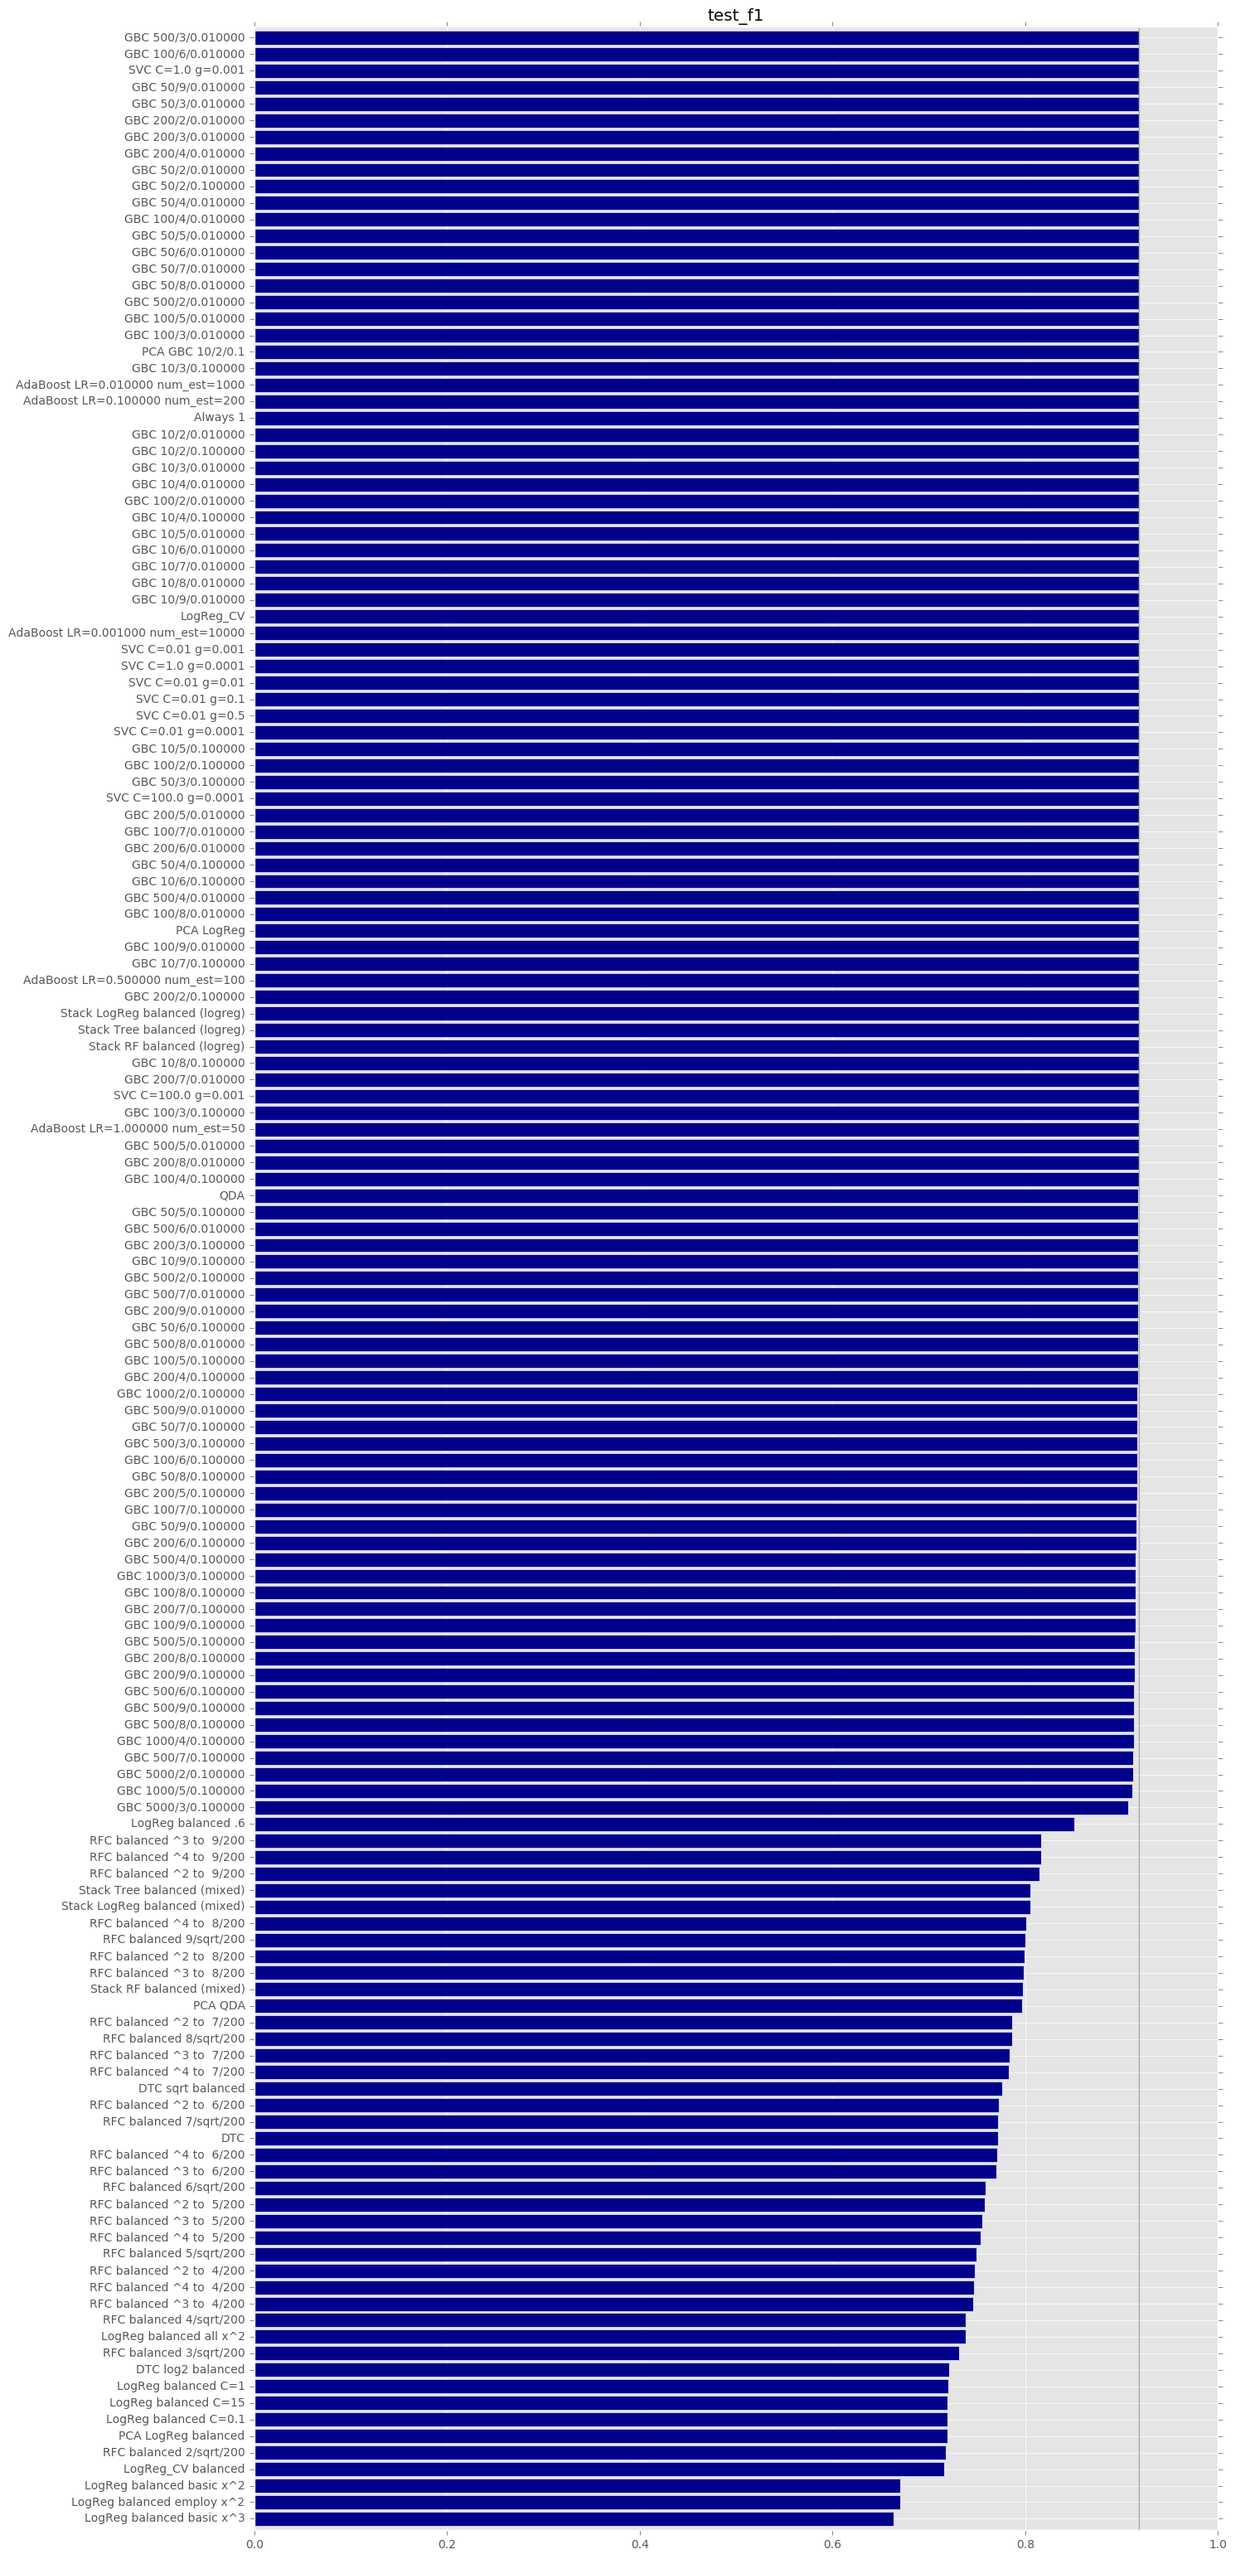
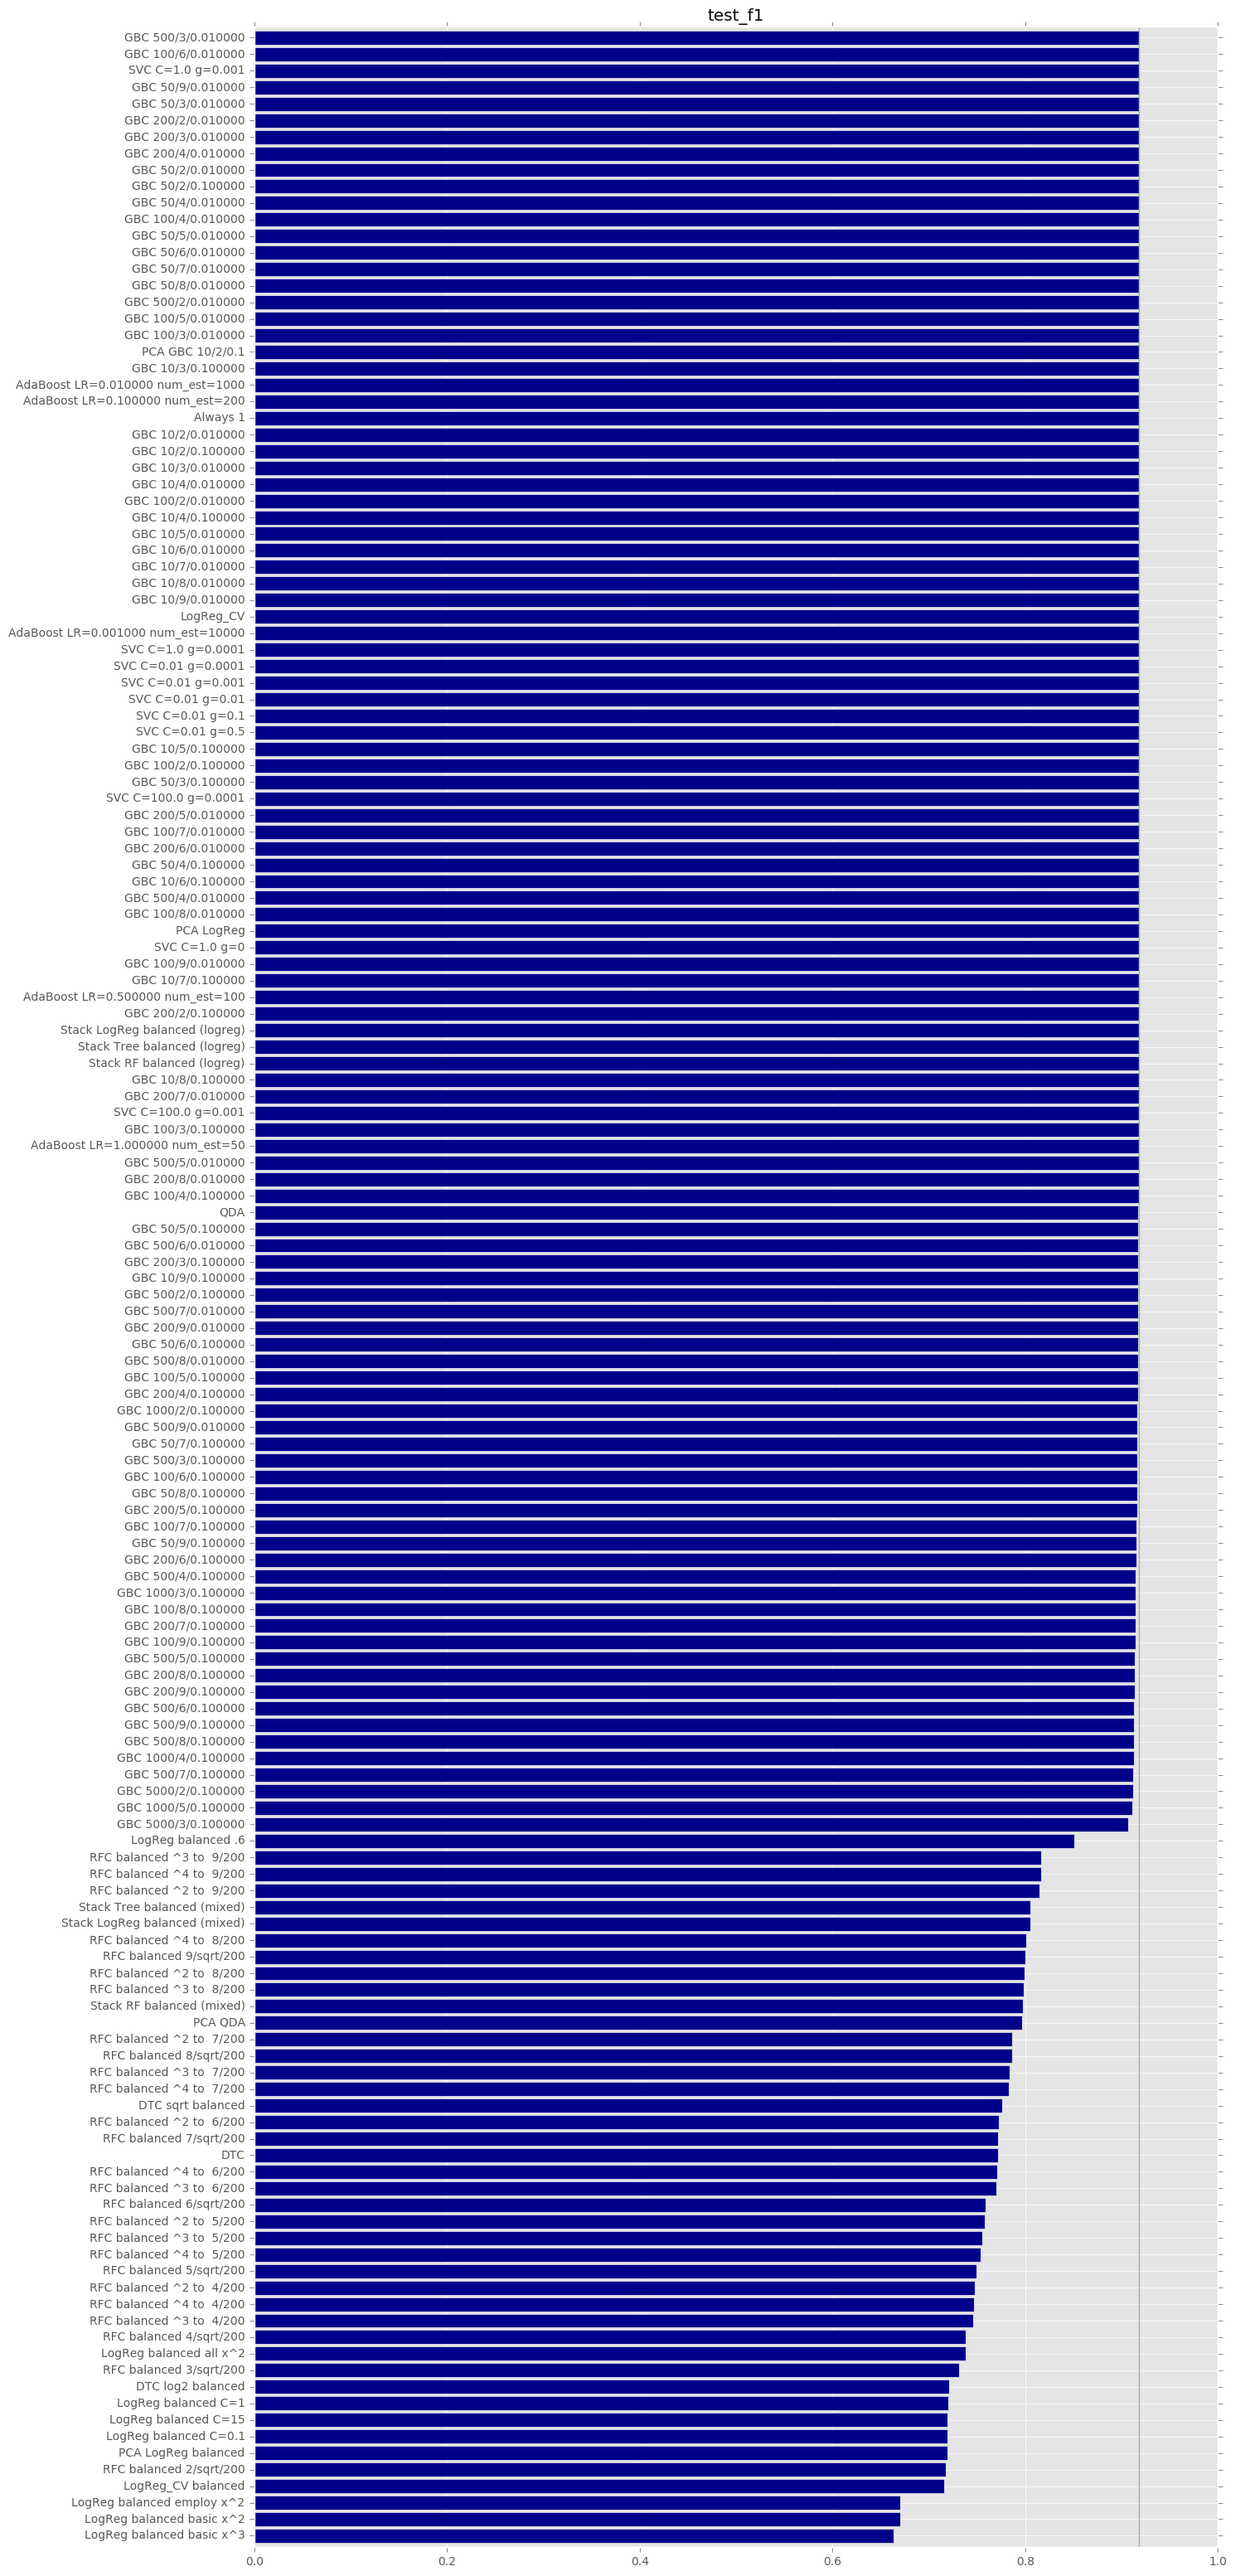
Latest results

Changed region(s): [[0.0309, 0.0311, 0.9262, 0.9951], [0.0309, 0.4354, 0.0617, 0.4665]]

diff --git a/docs/05-Analysis.html b/docs/05-Analysis.html
@@ -68,13 +68,12 @@ are represented in this report.</p>
 <ul>
   <li>The <b>Support Vector Classifier</b> (with an RBF kernel) has
   the highest AUC overall, at 0.666, for the best choices of the
-  hyperparameters <i>C</i> and <i>gamma</i>. [NB: We are still
-  re-running the SVC models so the charts below do not currently
-  reflect this.] This model group does not do particularly well with
-  metrics other than AUC, however. SVC performance lets us improve
-  precision with the lowest cost in recall; but based on F1 and
-  accuracy scores in the test data, this model group doesn't start
-  with a strong minimum.</li>
+  hyperparameters <i>C</i>=1.0 and <i>gamma</i>=0<sup>+</sup>. This
+  model group does not do particularly well with metrics other than
+  AUC, however. SVC performance lets us improve precision with the
+  lowest cost in recall; but based on F1 and accuracy scores in the
+  test data, this model group doesn't start with a strong
+  minimum.</li>
 
   <li>The <b>Gradient Booster Classifier</b> group of models are
   competitive in AUC for some hyperparameter values. With 100

diff --git a/docs/model_performance_table.js b/docs/model_performance_table.js
@@ -139,6 +139,7 @@ document.write("<tr><th>SVC C=0.01 g=0.001</th><td>0.412</td><td>0.918</td><td>0
 document.write("<tr><th>SVC C=0.01 g=0.01</th><td>0.637</td><td>0.918</td><td>0.848</td><td>0.562</td></tr>")
 document.write("<tr><th>SVC C=0.01 g=0.1</th><td>0.635</td><td>0.918</td><td>0.848</td><td>0.641</td></tr>")
 document.write("<tr><th>SVC C=0.01 g=0.5</th><td>0.500</td><td>0.918</td><td>0.848</td><td>0.152</td></tr>")
+document.write("<tr><th>SVC C=1.0 g=0</th><td class='better'>0.666</td><td>0.918</td><td>0.848</td><td>0.609</td></tr>")
 document.write("<tr><th>SVC C=1.0 g=0.0001</th><td>0.640</td><td>0.918</td><td>0.848</td><td>0.552</td></tr>")
 document.write("<tr><th>SVC C=1.0 g=0.001</th><td>0.656</td><td>0.918</td><td>0.848</td><td>0.586</td></tr>")
 document.write("<tr><th>SVC C=100.0 g=0.0001</th><td class='better'>0.658</td><td>0.918</td><td class='better'>0.849</td><td>0.589</td></tr>")
